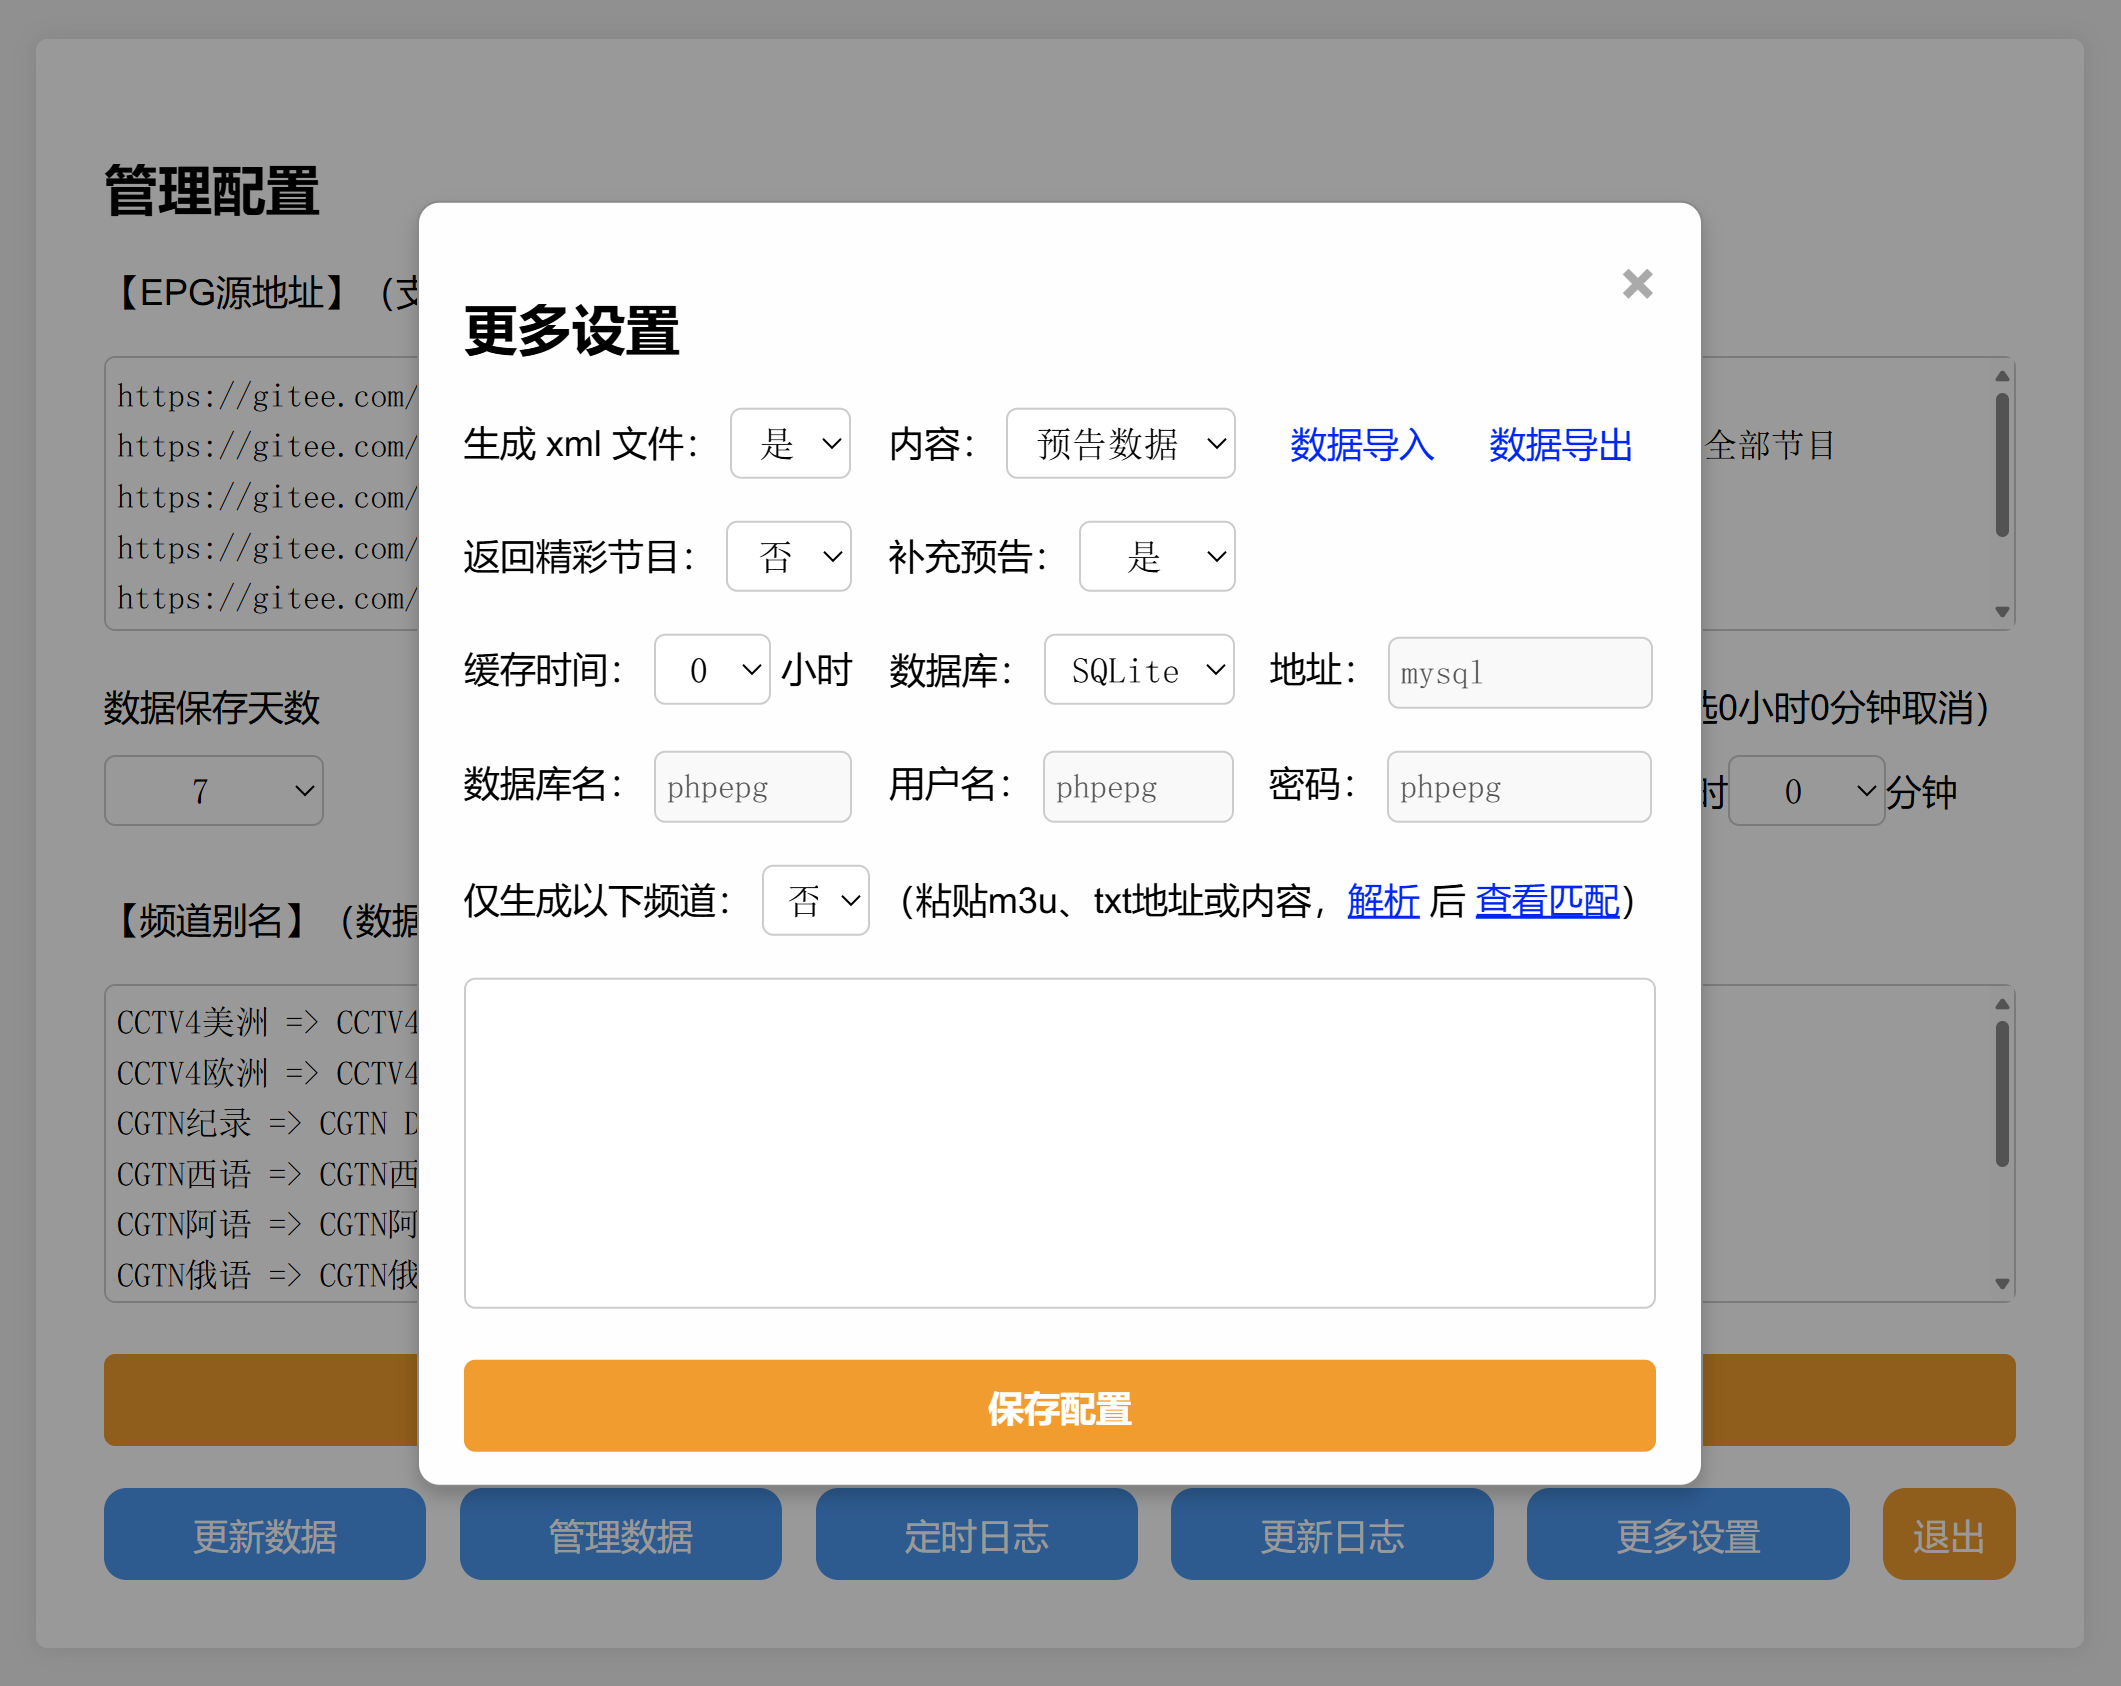
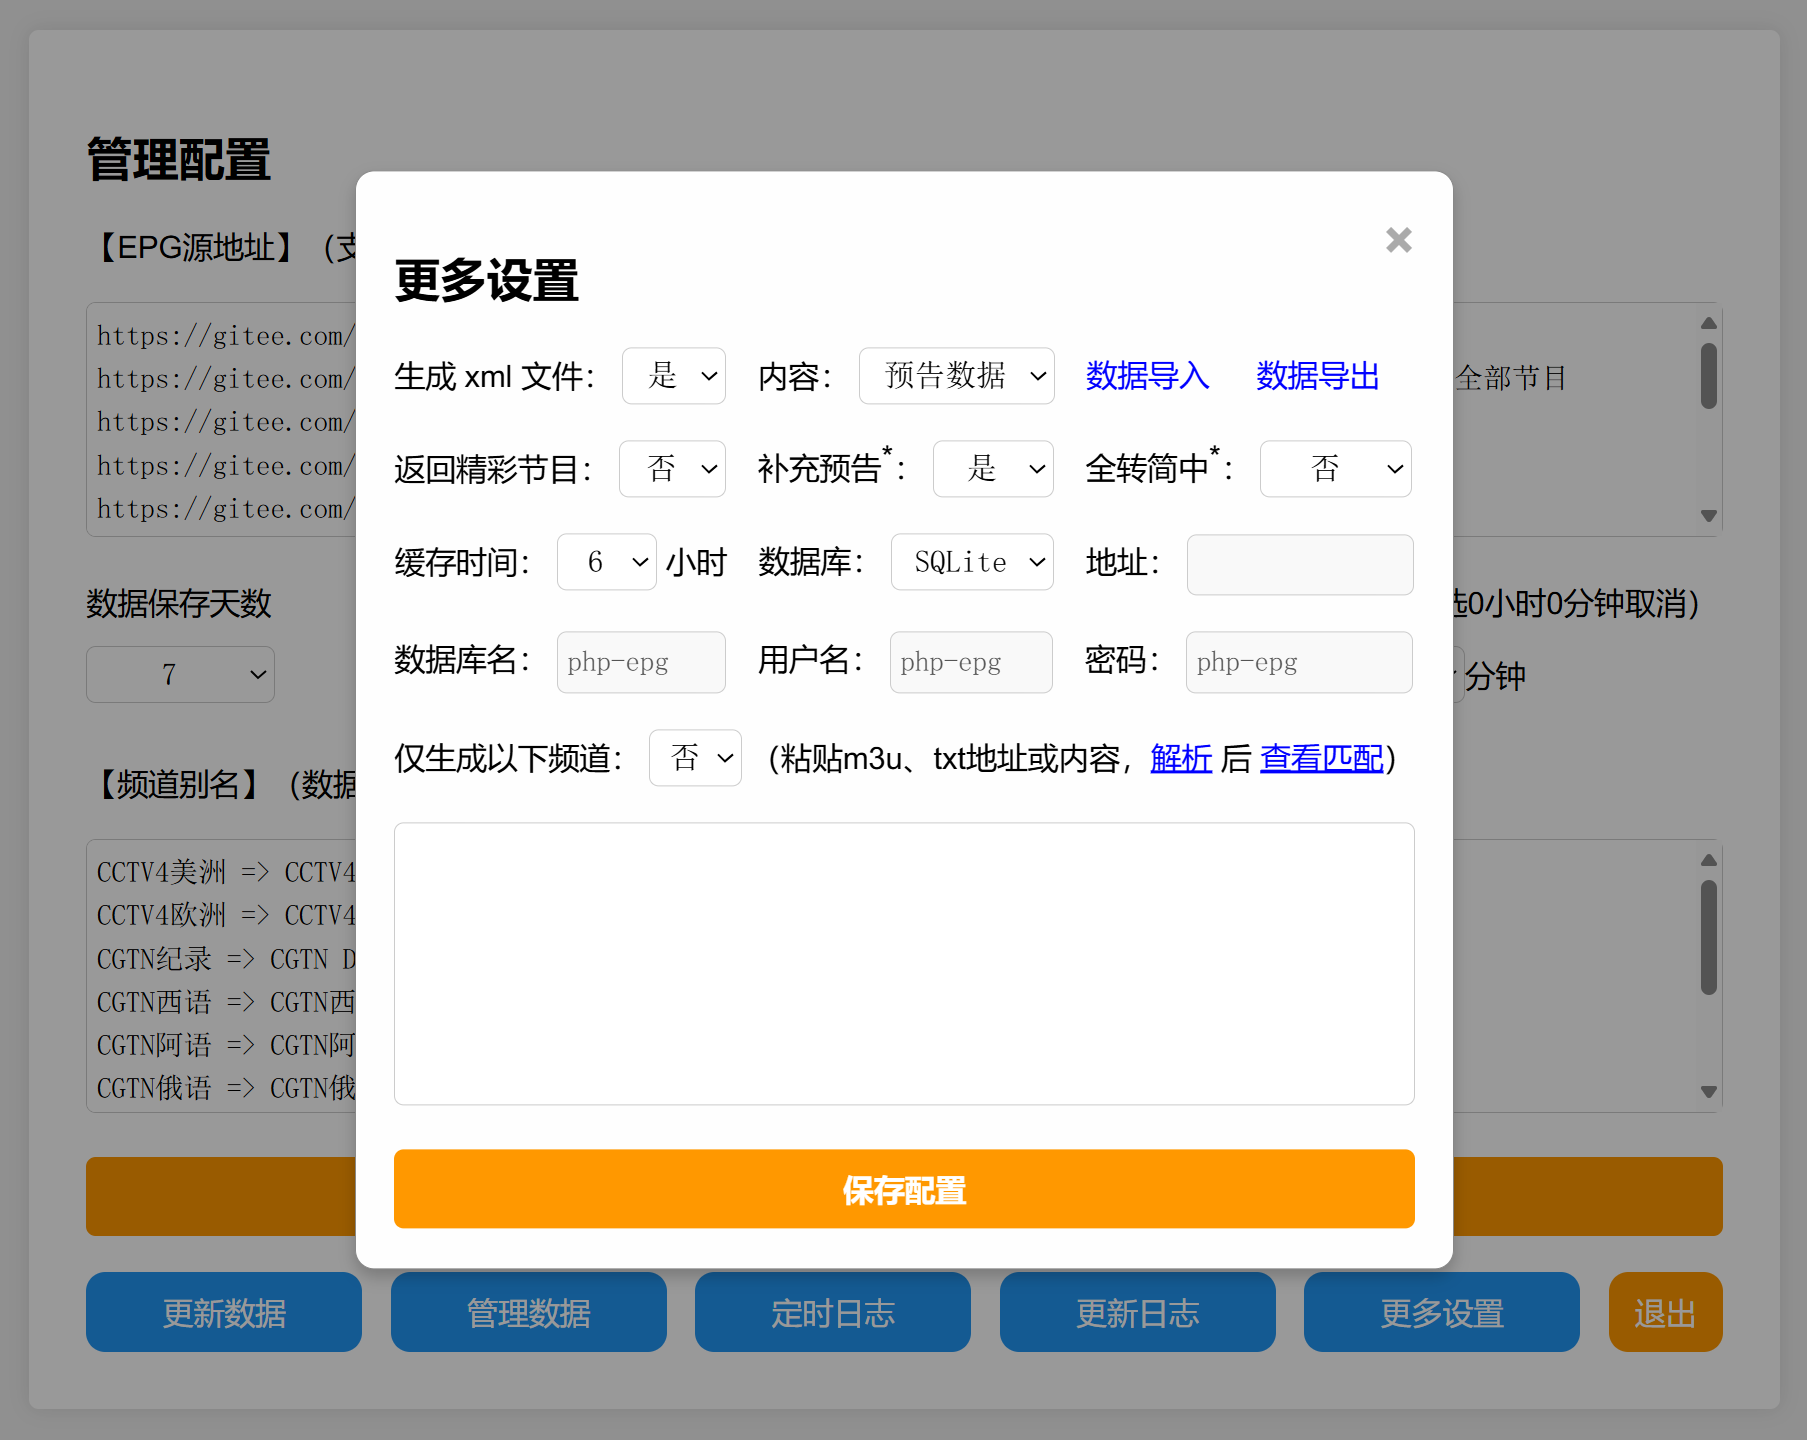
新增：全转简中；优化：台标自动保存、提示样式；修复：控制字符导致异常

diff --git a/epg/js/manage.js b/epg/js/manage.js
@@ -195,9 +195,8 @@ function showModal(type, $popup = true, $data = '') {
             fetchData('manage.php?get_channel_match=true', updateChannelMatchList);
             document.getElementById("moreSettingModal").style.display = "none";
             break;
-        case 'moresetting':
-            // 设置 MySQL 相关输入框状态
-            updateMySQLFields();
+        case 'moresetting':            
+            updateMySQLFields(); // 设置 MySQL 相关输入框状态
             document.getElementById('db_type').addEventListener('change', updateMySQLFields);
             modal = document.getElementById("moreSettingModal");
             logSpan = document.getElementsByClassName("close")[8];
@@ -462,7 +461,8 @@ function handleIconFileUpload(event, item, row, allData) {
                             <img src="${iconUrl}?${new Date().getTime()}" style="max-width: 80px; max-height: 50px; background-color: #ccc;">
                         </a>
                     `;
-                    document.getElementById('iconTable').dataset.allIcons = JSON.stringify(allData);
+                    document.getElementById('iconTable').dataset.allIcons = JSON.stringify(allData);                    
+                    updateIconListJsonFile();
                 } else {
                     alert('上传失败：' + data.message);
                 }
@@ -546,7 +546,8 @@ function uploadAllIcons() {
             uploadAllIcons(); // 继续上传
         }
         else {
-            progressDisplay.textContent = "全部转存成功，点击“保存配置”！";
+            progressDisplay.textContent = "全部转存成功，已保存！";
+            updateIconListJsonFile();
         }
     });
 }
@@ -665,7 +666,7 @@ async function parseSource() {
             } else {
                 chName = line.split(',')[0].trim();
             }
-            if (chName) channels.add(chName);
+            if (chName) channels.add(chName.toUpperCase());
         }
     });
 
@@ -678,21 +679,7 @@ async function parseSource() {
 
 // 保存数据并更新配置
 function saveAndUpdateConfig($doUpdate = true) {
-    var iconTableElement = document.getElementById('iconTable');
-    var allIcons = iconTableElement && iconTableElement.dataset.allIcons ? JSON.parse(iconTableElement.dataset.allIcons) : null;
-    if(allIcons) {
-        fetch('manage.php', {
-            method: 'POST',
-            headers: {
-                'Content-Type': 'application/x-www-form-urlencoded',
-            },
-            body: new URLSearchParams({
-                update_icon_list: true,
-                updatedIcons: JSON.stringify(allIcons) // 传递更新后的图标数据
-            })
-        });
-    }
-
+    updateIconListJsonFile();
     const textAreaContent = document.getElementById('gen_list_text').value;
     fetch('manage.php?set_gen_list=true', {
         method: 'POST',
@@ -716,9 +703,27 @@ function saveAndUpdateConfig($doUpdate = true) {
     });
 }
 
+// 更新 iconList.json
+function updateIconListJsonFile(){
+    var iconTableElement = document.getElementById('iconTable');
+    var allIcons = iconTableElement && iconTableElement.dataset.allIcons ? JSON.parse(iconTableElement.dataset.allIcons) : null;
+    if(allIcons) {
+        fetch('manage.php', {
+            method: 'POST',
+            headers: {
+                'Content-Type': 'application/x-www-form-urlencoded',
+            },
+            body: new URLSearchParams({
+                update_icon_list: true,
+                updatedIcons: JSON.stringify(allIcons) // 传递更新后的图标数据
+            })
+        });
+    }
+}
+
 // 在提交表单时，将更多设置中的数据包括在表单数据中
 document.getElementById('settingsForm').addEventListener('submit', function() {
-    const fields = ['gen_xml', 'include_future_only', 'ret_default', 'tvmao_default', 'gen_list_enable', 
+    const fields = ['gen_xml', 'include_future_only', 'ret_default', 'tvmao_default', 'all_chs', 'gen_list_enable', 
                     'cache_time', 'db_type', 'mysql_host', 'mysql_dbname', 'mysql_username', 'mysql_password'];
     fields.forEach(function(field) {
         const hiddenInput = document.createElement('input');

diff --git a/epg/css/manage.css b/epg/css/manage.css
@@ -44,16 +44,15 @@ textarea[id="mysql_username"], textarea[id="mysql_password"] {
     padding-left: 5px;
     padding-right: 5px;
 }
-.modal-content select[id="db_type"], textarea[id="mysql_username"] {
+.modal-content select[id="db_type"], textarea[id="mysql_username"], textarea[id="mysql_dbname"] {
     width: 85px;
-    margin-right: 11px;
+    margin-right: 12px;
 }
 textarea[id="mysql_host"], textarea[id="mysql_password"] {
     width: 118px;
 }
 textarea[id="mysql_dbname"] {
     width: 88px;
-    margin-right: 12px;
 }
 .form-row {
     display: flex;
@@ -79,7 +78,7 @@ textarea[id="mysql_dbname"] {
     border-radius: 5px;
     box-sizing: border-box;
     width: 98px;
-    margin-right: 88px;
+    margin-right: 12px;
     text-align: center;
 }
 .form-row input[type="time"] {
@@ -91,7 +90,7 @@ textarea[id="mysql_dbname"] {
     width: 90px;
 }
 .form-row input[id="start_time"] {
-    margin-left: 166px;
+    margin-left: 242px;
 }
 .form-row input[id="end_time"],
 select[id="interval_hour"]{
@@ -306,18 +305,18 @@ button[id="uploadAllIcons"], button[id="showAllIcons"] {
 }
 .modal-content select[id="include_future_only"] {
     width: 102px;
-    margin-right: 20px;
 }
 .modal-content select[id="gen_xml"] {
     width: 54px;
-    margin-right: 12px;
 }
 .modal-content select[id="ret_default"] {
     width: 56px;
-    margin-right: 12px;
 }
 .modal-content select[id="tvmao_default"] {
-    width: 70px;
+    width: 63px;
+}
+.modal-content select[id="all_chs"] {
+    width: 79px;
     margin-right: 0px;
 }
 .modal-content select[id="cache_time"] {

diff --git a/epg/manage.php b/epg/manage.php
@@ -20,6 +20,15 @@ session_start();
 $configUpdated = isset($_SESSION['configUpdated']) && $_SESSION['configUpdated'];
 if ($configUpdated) {
     unset($_SESSION['configUpdated']);
+} else {
+    // 首次进入界面，检查 cron.php 是否运行正常
+    if($Config['interval_time']!=0) {
+        $output = [];
+        exec("ps aux | grep '[c]ron.php'", $output);
+        if(!$output) {
+            exec('php cron.php > /dev/null 2>/dev/null &');
+        }
+    }
 }
 
 if (isset($_SESSION['import_message'])) {
@@ -159,6 +168,7 @@ if ($_SERVER['REQUEST_METHOD'] == 'POST' && isset($_POST['update'])) {
     $include_future_only = isset($_POST['include_future_only']) ? intval($_POST['include_future_only']) : $Config['include_future_only'];
     $ret_default = isset($_POST['ret_default']) ? intval($_POST['ret_default']) : $Config['ret_default'];
     $tvmao_default = isset($_POST['tvmao_default']) ? intval($_POST['tvmao_default']) : $Config['tvmao_default'];
+    $all_chs = isset($_POST['all_chs']) ? intval($_POST['all_chs']) : $Config['all_chs'];
     $gen_list_enable = isset($_POST['gen_list_enable']) ? intval($_POST['gen_list_enable']) : $Config['gen_list_enable'];
     $cache_time = intval($_POST['cache_time']) * 3600;
     $db_type = isset($_POST['db_type']) ? $_POST['db_type'] : $Config['db_type'];
@@ -207,6 +217,7 @@ if ($_SERVER['REQUEST_METHOD'] == 'POST' && isset($_POST['update'])) {
         'include_future_only' => $include_future_only,
         'ret_default' => $ret_default,
         'tvmao_default' => $tvmao_default,
+        'all_chs' => $all_chs,
         'gen_list_enable' => $gen_list_enable,
         'cache_time' => $cache_time,
         'db_type' => $db_type,
@@ -235,14 +246,7 @@ if ($_SERVER['REQUEST_METHOD'] == 'POST' && isset($_POST['update'])) {
     header('Location: manage.php');
     exit;
 } else {
-    // 首次进入界面，检查 cron.php 是否运行正常
-    if($Config['interval_time']!=0) {
-        $output = [];
-        exec("ps aux | grep '[c]ron.php'", $output);
-        if(!$output) {
-            exec('php cron.php > /dev/null 2>/dev/null &');
-        }
-    }
+
 }
 
 // 连接数据库并获取日志表中的数据
@@ -338,7 +342,7 @@ try {
                 break;
 
             case 'get_icon':
-                // 是否显示无节目表的内置台标
+                // 是否显示无节目单的内置台标
                 if(isset($_GET['get_all_icon'])) {
                     $iconList = $iconListMerged;
                 }
@@ -995,11 +999,22 @@ try {
             <option value="1" <?php if (!isset($Config['ret_default']) || $Config['ret_default'] == 1) echo 'selected'; ?>>是</option>
             <option value="0" <?php if (isset($Config['ret_default']) && $Config['ret_default'] == 0) echo 'selected'; ?>>否</option>
         </select>
-        <label for="tvmao_default" title="尝试使用 猫 接口补充预告数据">补充预告：</label>
-        <select id="tvmao_default" name="tvmao_default" required>
-            <option value="1" <?php if (isset($Config['tvmao_default']) && $Config['tvmao_default'] == 1) echo 'selected'; ?>>是</option>
-            <option value="0" <?php if (!isset($Config['tvmao_default']) || $Config['tvmao_default'] == 0) echo 'selected'; ?>>否</option>
-        </select>
+        <div class="tooltip" style="width:auto;">
+            <label for="tvmao_default" title="">补充预告<span style="vertical-align: super;">*</span>：</label>
+            <select id="tvmao_default" name="tvmao_default" required>
+                <option value="1" <?php if (isset($Config['tvmao_default']) && $Config['tvmao_default'] == 1) echo 'selected'; ?>>是</option>
+                <option value="0" <?php if (!isset($Config['tvmao_default']) || $Config['tvmao_default'] == 0) echo 'selected'; ?>>否</option>
+            </select>
+            <span class="tooltiptext">尝试使用 猫 接口<br>补充预告数据</span>
+        </div>
+        <div class="tooltip" style="width:auto;">
+            <label for="all_chs" title="">全转简中<span style="vertical-align: super;">*</span>：</label>
+            <select id="all_chs" name="all_chs" required>
+                <option value="1" <?php if (isset($Config['all_chs']) && $Config['all_chs'] == 1) echo 'selected'; ?>>是</option>
+                <option value="0" <?php if (!isset($Config['all_chs']) || $Config['all_chs'] == 0) echo 'selected'; ?>>否</option>
+            </select>
+            <span class="tooltiptext">节目单&描述<br>转简体中文</span>
+        </div>
         <br><br>
         <label for="cache_time">缓存时间：</label>
         <select id="cache_time" name="cache_time" required>

diff --git a/epg/update.php b/epg/update.php
@@ -56,6 +56,7 @@ function getFormatTime($time) {
 
 // 下载 XML 数据并存入数据库
 function downloadXmlData($xml_url, $db, &$log_messages, $gen_list) {
+    global $Config;
     $xml_data = downloadData($xml_url);
     if ($xml_data !== false && stripos($xml_data, 'not found') === false) {
         logMessage($log_messages, "【下载】 成功");
@@ -66,6 +67,8 @@ function downloadXmlData($xml_url, $db, &$log_messages, $gen_list) {
                 return;
             }
         }
+        $xml_data = preg_replace('/[\x00-\x1F]/u', ' ', $xml_data); // 清除所有控制字符
+        if (isset($Config['all_chs']) && $Config['all_chs']) { $xml_data = t2s($xml_data); }
         $db->beginTransaction();
         try {
             processXmlData($xml_url, $xml_data, $db, $gen_list);
@@ -82,6 +85,7 @@ function downloadXmlData($xml_url, $db, &$log_messages, $gen_list) {
 
 // 获取限定频道列表及映射关系
 function getGenList($db) {
+    global $Config;
     $channels = $db->query("SELECT channel FROM gen_list")->fetchAll(PDO::FETCH_COLUMN);
     if (empty($channels)) {
         return ['gen_list_mapping' => [], 'gen_list' => []];
@@ -292,7 +296,7 @@ function processXmlData($xml_url, $xml_data, $db, $gen_list) {
     }
 
     // 繁简转换和频道筛选
-    $simplifiedChannelNames = explode("\n", t2s(implode("\n", $cleanChannelNames)));
+    $simplifiedChannelNames = (isset($Config['all_chs']) && $Config['all_chs']) ? $cleanChannelNames : explode("\n", t2s(implode("\n", $cleanChannelNames)));
     $channelNamesMap = [];
     foreach ($cleanChannelNames as $channelId => $channelName) {
         $channelNameSimplified = array_shift($simplifiedChannelNames);
